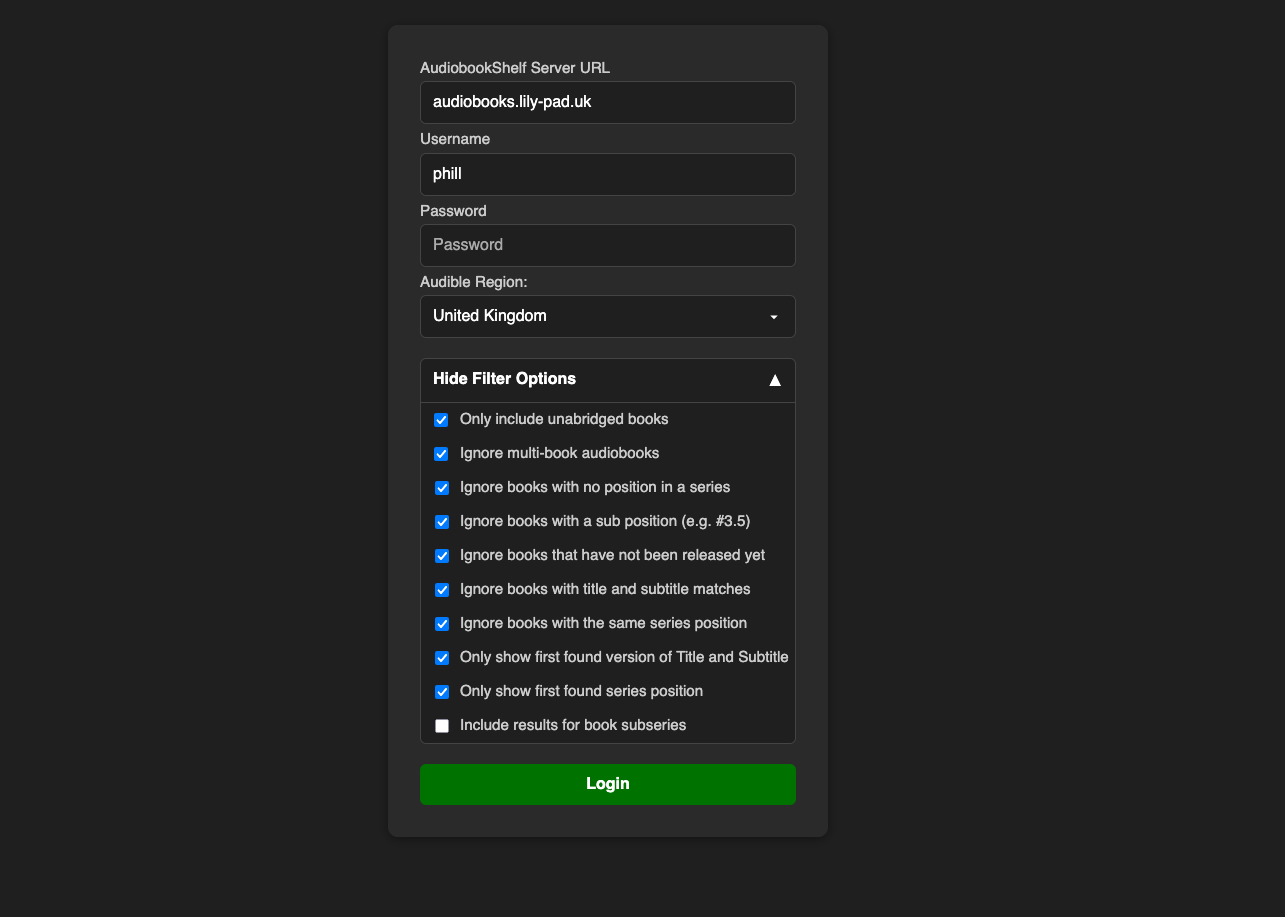
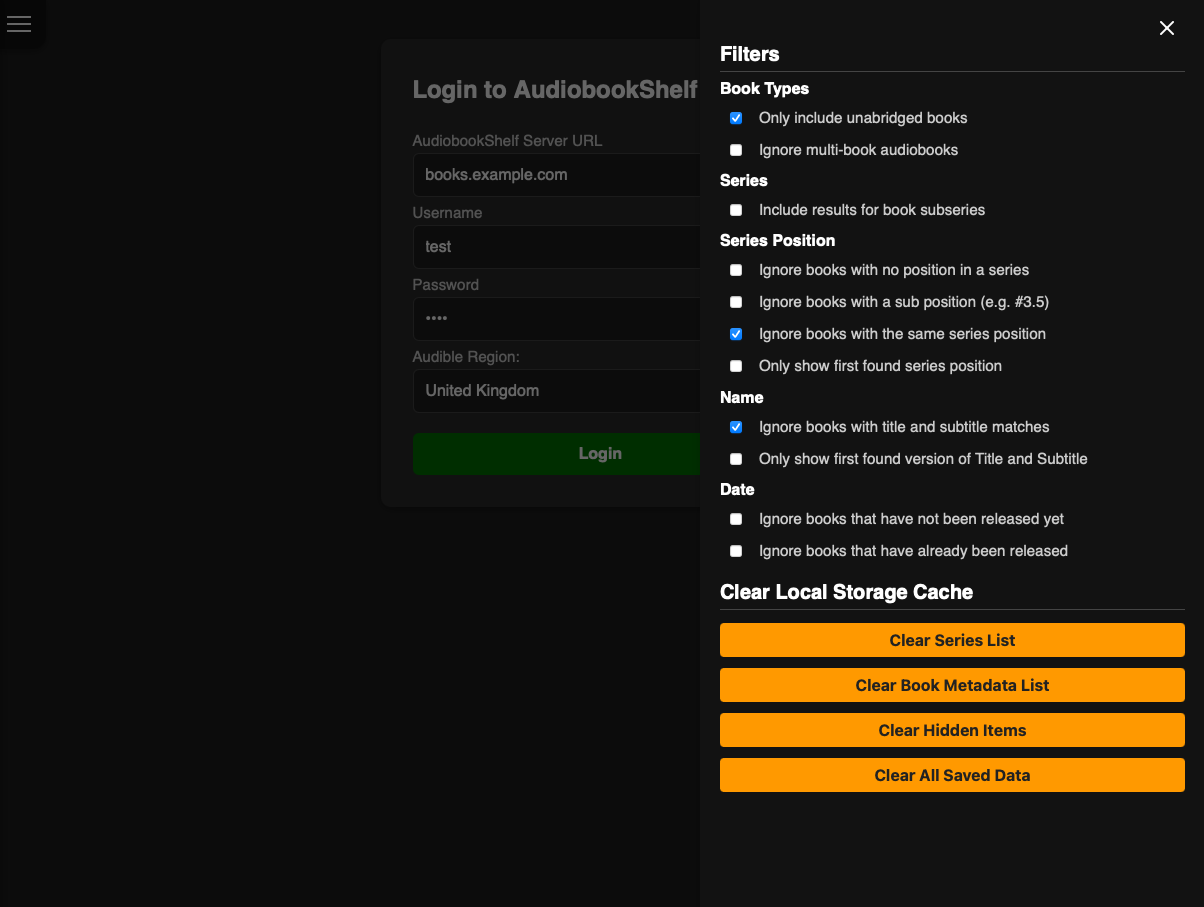
Now return ONLY audiobook libraries. Updated README

Changed region(s): [[0.2766, 0.0, 0.9834, 0.9261], [0.0, 0.0, 0.0307, 0.0617]]

diff --git a/php/getLibraries.php b/php/getLibraries.php
@@ -85,7 +85,7 @@ if (!$libraryId || !$authToken) {
 }
 
 // -----------------------------------------------------------------------------
-// Step 3a: Fetch all libraries
+// Step 3: Fetch all libraries
 // -----------------------------------------------------------------------------
 
 $librariesUrl = "$serverUrl/api/libraries";
@@ -122,8 +122,20 @@ if (!is_array($librariesData)) {
     exit;
 }
 
+// -----------------------------------------------------------------------------
+// Step 4: Return audiobook libraries only
+// -----------------------------------------------------------------------------
+
 // Extract library list
 $librariesList = $librariesData['libraries'] ?? [];
+
+$booksOnlyLibrariesList = array_filter($librariesList, function($item) {
+    return isset($item['mediaType']) && $item['mediaType'] === 'book';
+});
+
+// Optionally reindex the array if needed
+$booksOnlyLibrariesList = array_values($booksOnlyLibrariesList);
+
 
 // -----------------------------------------------------------------------------
 // Step 5: Respond with structured result
@@ -132,5 +144,5 @@ $librariesList = $librariesData['libraries'] ?? [];
 echo json_encode([
     'status' => 'success',
     'authToken' => $authToken,
-    'librariesList' => $librariesList
+    'librariesList' => $booksOnlyLibrariesList
 ]);

diff --git a/README.md b/README.md
@@ -46,17 +46,25 @@ You can inspect the full source code in this repository to verify that yourself.
    - Default behavior: shows only unique, unabridged titles you're missing.  
    - Uncheck "Ignore matching titles" to allow duplicates with the same name.
 
-3. **Discover missing books**  
-   - The app fetches your library, finds the first book in each series, then uses that to get the full series metadata from `audimeta.de`.
+3. **Choose your library**  
+   - If you have more than one library, pick the one(s) to search against and produce results.
+   - If you have a single library this screen will not be shown and the default library will be used. 
 
-4. **Review and buy**  
+4. **Discover missing books**  
+   - The app fetches your library, finds the first book in each series, then uses that to get the full series metadata from `audimeta.de`.
+   - If the series metadata has already been fetched from `audimeta.de` internal storage is used to improve performance and reduce API requests.
+
+5. **Review and buy**  
    - Click a series tile to see all missing titles.  
    - Click a book to see more info and a purchase link on Audible.
 
-5. **Hide content you don't want**  
+6. **Hide content you don't want**  
    - Use the 👁 icon to hide series or books permanently.  
    - Hidden items are tracked and can be managed from the sidebar (burger menu).
 
+5. **Apply new filters**  
+   - Change the filters used and get an updated results page without logging in again
+   - Clear cached contents to force a new request
 ---
 
 ## 🖼 Screenshots
@@ -65,7 +73,9 @@ You can inspect the full source code in this repository to verify that yourself.
 |--------|------------|
 | 🏠 Home Page | ![HomePage](https://raw.githubusercontent.com/xFrieDSpuDx/completeseries/refs/heads/main/ExampleImages/HomepageFilterClosed.png) |
 | 🏠 Home Page Filters | ![HomePageFilters](https://raw.githubusercontent.com/xFrieDSpuDx/completeseries/refs/heads/main/ExampleImages/HomepageFilterOpen.png) |
+| 📚 Library Selection | ![HomePageFilters](https://raw.githubusercontent.com/xFrieDSpuDx/completeseries/refs/heads/main/ExampleImages/LibrarySelect.png) |
 | 📊 Results Page | ![ResultsPage](https://raw.githubusercontent.com/xFrieDSpuDx/completeseries/refs/heads/main/ExampleImages/ResultsPage.png) |
+| 🧰 Filter Results Page | ![ResultsPage](https://raw.githubusercontent.com/xFrieDSpuDx/completeseries/refs/heads/main/ExampleImages/FilterOptionsAfterResults.png) |
 | 📚 Book Modal | ![BooksModal](https://raw.githubusercontent.com/xFrieDSpuDx/completeseries/refs/heads/main/ExampleImages/BooksModal.png) |
 | 📖 Book Details | ![BookDetails](https://raw.githubusercontent.com/xFrieDSpuDx/completeseries/refs/heads/main/ExampleImages/BookDetails.png) |
 | 🙈 Hide Individual Book | ![HideBooks](https://raw.githubusercontent.com/xFrieDSpuDx/completeseries/refs/heads/main/ExampleImages/HideBooks.png) |
